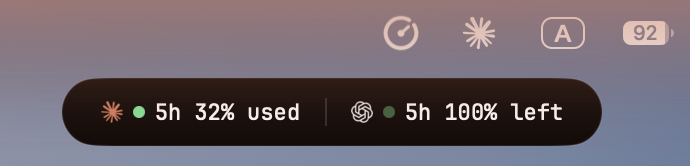
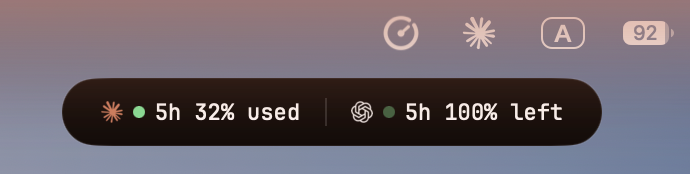
README: line the screenshots up into a rectangle again

diff --git a/README.md b/README.md
@@ -40,12 +40,12 @@ Limita is a tiny native menu-bar app that shows how much of your **Claude** and 
 This is how Limita looks on your Mac.
 
 <p align="center">
-  <img src="docs/screenshots/pill-claude-desktop.png" alt="Pill with Claude under the menu bar" width="303">
-  <img src="docs/screenshots/pill-menu-bar.png" alt="Pill with both services under the menu bar" width="549">
+  <img src="docs/screenshots/pill-claude-desktop.png" alt="Pill with Claude under the menu bar" width="299">
+  <img src="docs/screenshots/pill-menu-bar.png" alt="Pill with both services under the menu bar" width="517">
 </p>
 
 <p align="center">
-  <img src="docs/screenshots/dashboard-claude-desktop.png" alt="Dashboard with Claude only, in peak hours" width="757">
+  <img src="docs/screenshots/dashboard-claude-desktop.png" alt="Dashboard with Claude only, in peak hours" width="820">
 </p>
 
 <p align="center">
